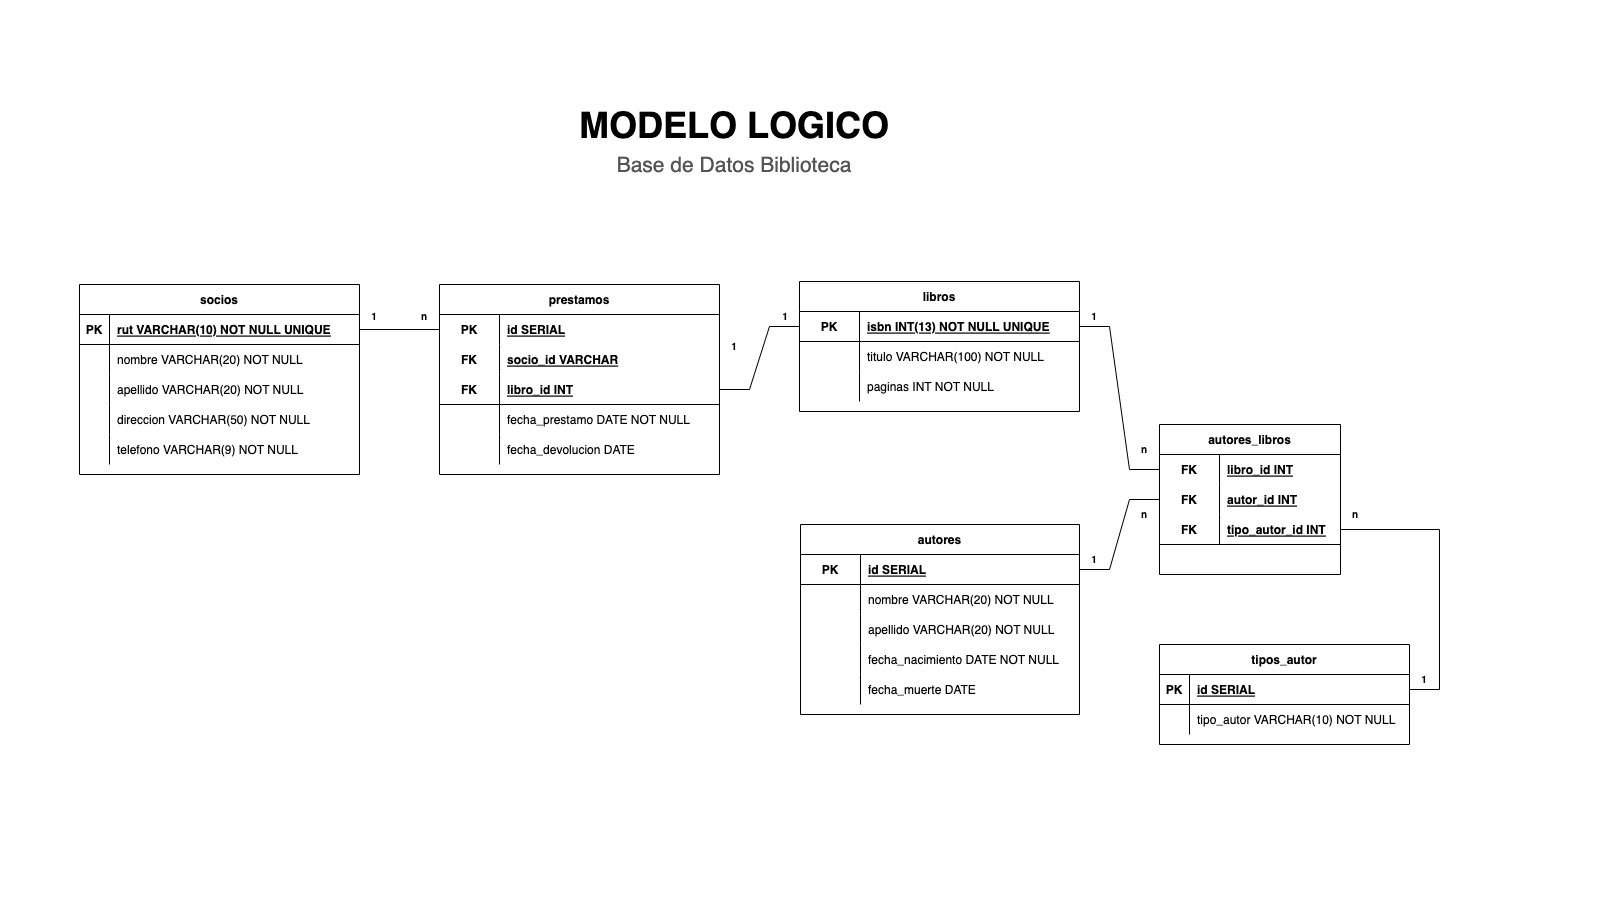
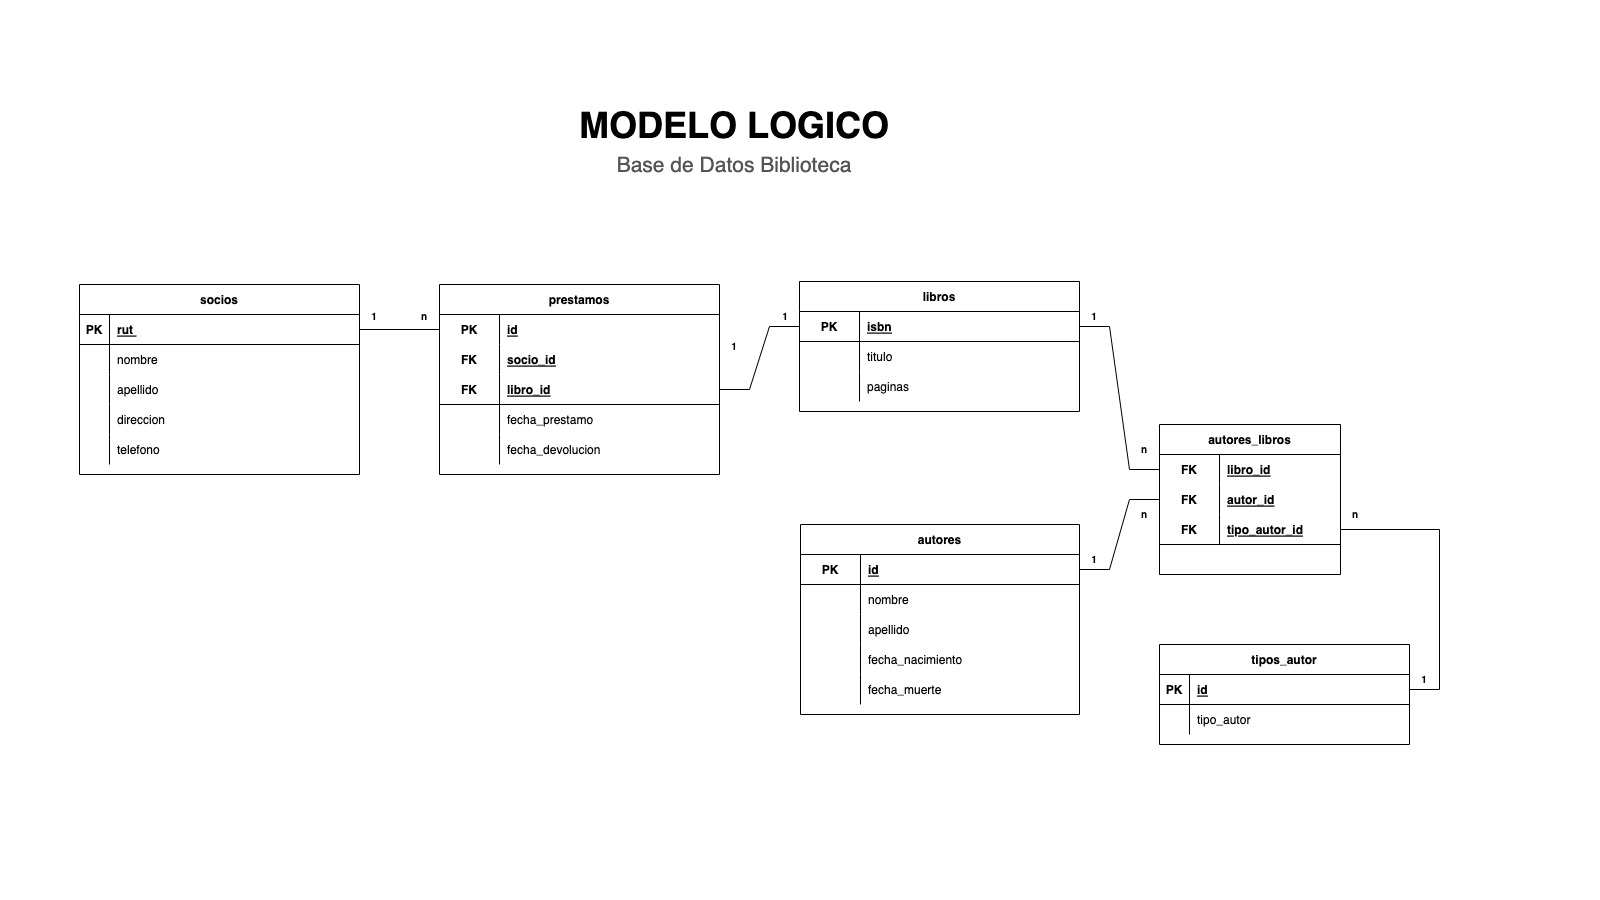
agegando imagenes de modelos

diff --git a/desafiosEvaluados/biblioteca/readme.md b/desafiosEvaluados/biblioteca/readme.md
@@ -7,66 +7,12 @@
 2. Realizar el modelo lógico, considerando todas las entidades y las relaciones entre ellas, los atributos, normalización y creación de tablas intermedias de ser necesario. (2 Puntos)
    ![Screenshot](img/modelo_logico.jpeg)
 3. Realizar el modelo físico, considerando la especificación de tablas y columnas, además de las claves externas. (2 Puntos)
-   El modelo físico se encuentra en el archivo [biblioteca.sql](biblioteca.sql).
-
-```
-
-CREATE TABLE socios(
-  rut VARCHAR(10) NOT NULL UNIQUE,
-  nombre VARCHAR(20) NOT NULL,
-  apellido VARCHAR(20) NOT NULL,
-  direccion VARCHAR(50) NOT NULL,
-  telefono VARCHAR(9) NOT NULL,
-  PRIMARY KEY(rut)
-);
-
-CREATE TABLE libros(
-  isbn INT(13) NOT NULL UNIQUE,
-  titulo VARCHAR(100) NOT NULL,
-  paginas INT NOT NULL,
-  PRIMARY KEY (isbn)
-);
-
-CREATE TABLE prestamos(
-  id SERIAL,
-  socio_id VARCHAR,
-  libro_id INT,
-  fecha_prestamo DATE NOT NULL,
-  fecha_devolucion DATE NOT NULL,
-  PRIMARY KEY id,
-  FOREIGN KEY socio_id REFERENCES socios(rut),
-  FOREIGN KEY libro_id REFERENCES libros(isbn)
-);
-
-CREATE TABLE autores(
-  id SERIAL,
-  nombre VARCHAR(20) NOT NULL,
-  apellido VARCHAR(20) NOT NULL,
-  fecha_nacimiento DATE NOT NULL,
-  fecha_muerte DATE,
-  PRIMARY KEY(id)
-);
-
-CREATE TABLE tipos_autor(
-  id SERIAL,
-  tipo_autor VARCHAR(10) NOT NULL,
-  PRIMARY KEY(id)
-);
-
-CREATE TABLE autores_libros(
-  libro_id INT,
-  autor_id INT,
-  tipo_autor INT,
-  FOREIGN KEY libro_id REFERENCES libros(isbn),
-  FOREIGN KEY autor_id REFERENCES autores(id),
-  FOREIGN KEY tipo_autor REFERENCES tipos_autor(id),
-);
-
-```
+   ![Screenshot](img/modelo_fisico.jpeg)
 
 ### Parte 2
 
 1. Crear el modelo en una base de datos llamada biblioteca, considerando las tablas definidas y sus atributos. (2 puntos).
+
 2. Se deben insertar los registros en las tablas correspondientes (1 punto).
 3. Realizar las siguientes consultas:
    a. Mostrar todos los libros que posean menos de 300 páginas. (0.5 puntos)
